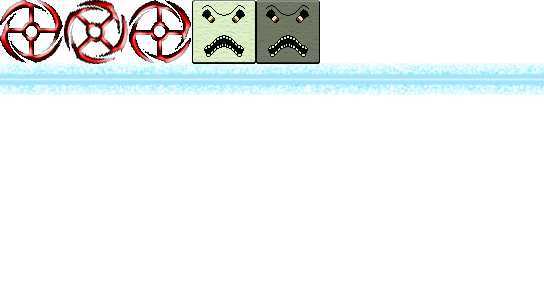
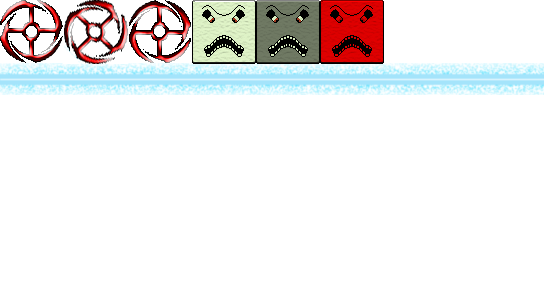
Added new boss

Changed region(s): [[0.5625, 0.0, 0.7188, 0.24]]

diff --git a/app/js/app.js b/app/js/app.js
@@ -1,5 +1,5 @@
 (function() {
-  var Arena, Bonus, BonusManager, Boss, BossManager, CollisionManager, ContentLoader, ControllablePlayer, Cube, CubeFragment, CubeManager, Effect, FallingCube, FreezeMan, FreezeManPart, Game, HUD, Keyboard, LabiMan, LabiManPart, LevelManager, MultiPartBoss, NetworkManager, Player, PoingMan, PoingManPart, RoueMan, SkinManager, SpecialCube, SpecialCubes, SquareEnum, StaticCube, VirtualPlayer, animFrame, arena, bonusManager, bonusTypes, bonusTypesId, bossManager, collisionManager, config, contentLoader, cubeManager, debugLayer, debugMap, div, divs, dynamicEntities, game, hud, hudLayer, keyboard, levelManager, networkManager, player, players, skin, skinManager, stage, staticBg, staticCubes, _i, _len,
+  var Arena, Bonus, BonusManager, Boss, BossManager, CollisionManager, ContentLoader, ControllablePlayer, Cube, CubeFragment, CubeManager, Effect, FallingCube, FreezeMan, FreezeManPart, Game, HUD, Keyboard, LabiMan, LabiManPart, LevelManager, MultiPartBoss, NetworkManager, Player, PoingMan, RoueMan, SkinManager, SparkMan, SparkManPart, SpecialCube, SpecialCubes, SquareEnum, StaticCube, VirtualPlayer, animFrame, arena, bonusManager, bonusTypes, bonusTypesId, bossManager, collisionManager, config, contentLoader, cubeManager, debugLayer, debugMap, div, divs, dynamicEntities, game, hud, hudLayer, keyboard, levelManager, networkManager, player, players, skin, skinManager, stage, staticBg, staticCubes, _i, _len,
     __hasProp = {}.hasOwnProperty,
     __extends = function(child, parent) { for (var key in parent) { if (__hasProp.call(parent, key)) child[key] = parent[key]; } function ctor() { this.constructor = child; } ctor.prototype = parent.prototype; child.prototype = new ctor(); child.__super__ = parent.prototype; return child; };
 
@@ -2709,6 +2709,14 @@
             width: 64,
             height: 64
           }
+        ],
+        sparkman: [
+          {
+            x: 320,
+            y: 0,
+            width: 64,
+            height: 64
+          }
         ]
       };
       this.draw();
@@ -2797,7 +2805,10 @@
         this.currentBoss = new PoingMan(options);
       }
       if (boss === 4) {
-        return this.currentBoss = new LabiMan(options);
+        this.currentBoss = new LabiMan(options);
+      }
+      if (boss === 5) {
+        return this.currentBoss = new SparkMan(options);
       }
     };
 
@@ -3144,18 +3155,6 @@
 
   })(Boss);
 
-  PoingManPart = (function(_super) {
-    __extends(PoingManPart, _super);
-
-    function PoingManPart(x, y) {
-      PoingManPart.__super__.constructor.call(this, 'roueman', x, y, 64, 64);
-      this.attached = true;
-    }
-
-    return PoingManPart;
-
-  })(Boss);
-
   LabiMan = (function(_super) {
     __extends(LabiMan, _super);
 
@@ -3305,6 +3304,160 @@
     }
 
     return LabiManPart;
+
+  })(Boss);
+
+  SparkMan = (function(_super) {
+    __extends(SparkMan, _super);
+
+    function SparkMan(pattern) {
+      var x, y;
+      x = stage.getWidth() / 2 - 32;
+      y = stage.getY() * -1 - 64;
+      SparkMan.__super__.constructor.call(this, 'sparkman', x, y, 64, 64);
+      this.speed = pattern[0][0];
+      this.attackSpeed = pattern[0][1];
+      this.interval = pattern[0][2];
+      this.attacks = pattern[1];
+      this.position = arena.y - levelManager.levelHeight - 512;
+      this.time = 0;
+      this.attackCount = 0;
+      this.attackFinished = 0;
+      this.attackIndex = 0;
+      this.inPosition = false;
+      this.start();
+    }
+
+    SparkMan.prototype.genAttacks = function() {
+      var attacks, i, xSide, ySide, ySpeed, _i;
+      attacks = [];
+      for (i = _i = 0; _i <= 7; i = ++_i) {
+        ySpeed = (Math.round(Math.random() * 25 + 10)) / 100;
+        xSide = Math.round(Math.random() * 2 - 1);
+        ySide = 1;
+        if (xSide === 0) {
+          xSide = 1;
+        }
+        attacks.push([xSide, ySide, ySpeed]);
+      }
+      return attacks;
+    };
+
+    SparkMan.prototype.start = function() {
+      var self;
+      self = this;
+      return bossManager.update = function(frameTime) {
+        if (!self.inPosition) {
+          self.moveToPosition(frameTime);
+        } else if (self.time >= self.interval) {
+          self.time = 0;
+          self.attack();
+        } else if (self.attackCount < self.attacks.length) {
+          self.time += frameTime;
+        }
+        return self.updateParts(frameTime);
+      };
+    };
+
+    SparkMan.prototype.moveToPosition = function(frameTime) {
+      var tmp;
+      tmp = this.shape.getY() + this.speed * frameTime;
+      if (tmp < this.position) {
+        return this.shape.setY(tmp);
+      } else {
+        this.shape.setY(this.position);
+        this.inPosition = true;
+        return this.time = this.interval * 0.75;
+      }
+    };
+
+    SparkMan.prototype.attack = function() {
+      this.parts.push(new SparkManPart(this.shape.getX(), this.shape.getY() + 64, this.attacks[this.attackIndex]));
+      this.parts.push(new SparkManPart(this.shape.getX(), this.shape.getY() + 64, this.attacks[this.attackIndex + 1]));
+      this.attackCount += 2;
+      return this.attackIndex += 2;
+    };
+
+    SparkMan.prototype.updateParts = function(frameTime) {
+      var part, tmpX, tmpY, _i, _len, _ref;
+      _ref = this.parts;
+      for (_i = 0, _len = _ref.length; _i < _len; _i++) {
+        part = _ref[_i];
+        tmpY = part.shape.getY() + part.ySpeed * frameTime * part.sideY;
+        if (tmpY > arena.y - levelManager.levelHeight - 64) {
+          part.shape.setY(arena.y - levelManager.levelHeight - 64);
+          if (part.changeSide('y')) {
+            this.attackFinished++;
+          }
+        }
+        if (tmpY < this.position - 96) {
+          part.shape.setY(this.position - 96);
+          if (part.changeSide('y')) {
+            this.attackFinished++;
+          }
+        }
+        part.shape.setY(tmpY);
+        tmpX = part.shape.getX() + this.attackSpeed * frameTime * part.sideX;
+        if (tmpX < 160) {
+          part.shape.setX(160);
+          if (part.changeSide('x')) {
+            this.attackFinished++;
+          }
+        }
+        if (tmpX > stage.getWidth() - 224) {
+          part.shape.setX(stage.getWidth() - 224);
+          if (part.changeSide('x')) {
+            this.attackFinished++;
+          }
+        }
+        part.shape.setX(tmpX);
+      }
+      if (this.attackFinished === this.attacks.length) {
+        return this.quitScreen(frameTime);
+      }
+    };
+
+    SparkMan.prototype.quitScreen = function(frameTime) {
+      var tmp;
+      tmp = this.shape.getX() + this.speed * frameTime;
+      if (tmp < 800) {
+        return this.shape.setX(tmp);
+      } else {
+        return this.finish();
+      }
+    };
+
+    return SparkMan;
+
+  })(MultiPartBoss);
+
+  SparkManPart = (function(_super) {
+    __extends(SparkManPart, _super);
+
+    function SparkManPart(x, y, attack) {
+      SparkManPart.__super__.constructor.call(this, 'roueman', x, y, 64, 64);
+      this.sideX = attack[0];
+      this.sideY = attack[1];
+      this.ySpeed = attack[2];
+      this.life = 10;
+    }
+
+    SparkManPart.prototype.changeSide = function(side) {
+      if (side === 'x') {
+        this.sideX *= -1;
+      } else {
+        this.sideY *= -1;
+      }
+      this.life--;
+      if (this.life === 0) {
+        this.reset();
+        return true;
+      } else {
+        return false;
+      }
+    };
+
+    return SparkManPart;
 
   })(Boss);
 

diff --git a/server/server.js b/server/server.js
@@ -1,5 +1,5 @@
 (function() {
-  var Boss, BossManager, CubeManager, FreezeMan, Game, LabiMan, LevelManager, NetworkManager, PoingMan, RoueMan, SpecialCubes, SquareEnum, bossManager, config, cubeManager, game, levelManager, networkManager, slowLoop,
+  var Boss, BossManager, CubeManager, FreezeMan, Game, LabiMan, LevelManager, NetworkManager, PoingMan, RoueMan, SparkMan, SpecialCubes, SquareEnum, bossManager, config, cubeManager, game, levelManager, networkManager, slowLoop,
     __hasProp = {}.hasOwnProperty,
     __extends = function(child, parent) { for (var key in parent) { if (__hasProp.call(parent, key)) child[key] = parent[key]; } function ctor() { this.constructor = child; } ctor.prototype = parent.prototype; child.prototype = new ctor(); child.__super__ = parent.prototype; return child; };
 
@@ -794,7 +794,7 @@
   BossManager = (function() {
     function BossManager() {
       this.launched = false;
-      this.boss = ['roueman', 'freezeman', 'poingman', 'labiman'];
+      this.boss = ['sparkman'];
     }
 
     BossManager.prototype.launch = function() {
@@ -819,6 +819,8 @@
         return new PoingMan();
       } else if (boss === 'labiman') {
         return new LabiMan();
+      } else if (boss === 'sparkman') {
+        return new SparkMan();
       }
     };
 
@@ -970,6 +972,43 @@
     };
 
     return LabiMan;
+
+  })(Boss);
+
+  SparkMan = (function(_super) {
+    __extends(SparkMan, _super);
+
+    function SparkMan() {
+      SparkMan.__super__.constructor.call(this, 'sparkman', 30000, this.getPattern());
+      this.id = 5;
+    }
+
+    SparkMan.prototype.getPattern = function() {
+      var attackSpeed, attacks, interval, options, speed;
+      speed = Math.round((0.5 + 0.03 * levelManager.level) * 100) / 100;
+      attackSpeed = Math.round((0.2 + 0.005 * (levelManager.level - 1)) * 100) / 100;
+      interval = 4000 - 50 * levelManager.level;
+      options = [speed, attackSpeed, interval];
+      attacks = this.makeLevel();
+      return [options, attacks];
+    };
+
+    SparkMan.prototype.makeLevel = function() {
+      var attacks, i, xSide, ySide, ySpeed, _i;
+      attacks = [];
+      for (i = _i = 0; _i <= 7; i = ++_i) {
+        ySpeed = (Math.round(Math.random() * 25 + 10)) / 100;
+        xSide = Math.round(Math.random() * 2 - 1);
+        ySide = 1;
+        if (xSide === 0) {
+          xSide = 1;
+        }
+        attacks.push([xSide, ySide, ySpeed]);
+      }
+      return attacks;
+    };
+
+    return SparkMan;
 
   })(Boss);
 

diff --git a/Gruntfile.js b/Gruntfile.js
@@ -43,9 +43,10 @@ module.exports = function(grunt) {
                     'src/coffee/app/Classes/Bosses/FreezeMan.coffee',
                     'src/coffee/app/Classes/Bosses/FreezeManPart.coffee',
                     'src/coffee/app/Classes/Bosses/PoingMan.coffee',
-                    'src/coffee/app/Classes/Bosses/PoingManPart.coffee',
                     'src/coffee/app/Classes/Bosses/LabiMan.coffee',
                     'src/coffee/app/Classes/Bosses/LabiManPart.coffee',
+                    'src/coffee/app/Classes/Bosses/SparkMan.coffee',
+                    'src/coffee/app/Classes/Bosses/SparkManPart.coffee',
                     'src/coffee/app/main.coffee',
                     'src/coffee/app/events.coffee'
                 ],
@@ -64,6 +65,7 @@ module.exports = function(grunt) {
                     'src/coffee/server/Classes/Bosses/FreezeMan.coffee',
                     'src/coffee/server/Classes/Bosses/PoingMan.coffee',
                     'src/coffee/server/Classes/Bosses/LabiMan.coffee',
+                    'src/coffee/server/Classes/Bosses/SparkMan.coffee',
                     'src/coffee/server/main.coffee'
                 ],
                 dest: 'src/tmp/server.coffee'
